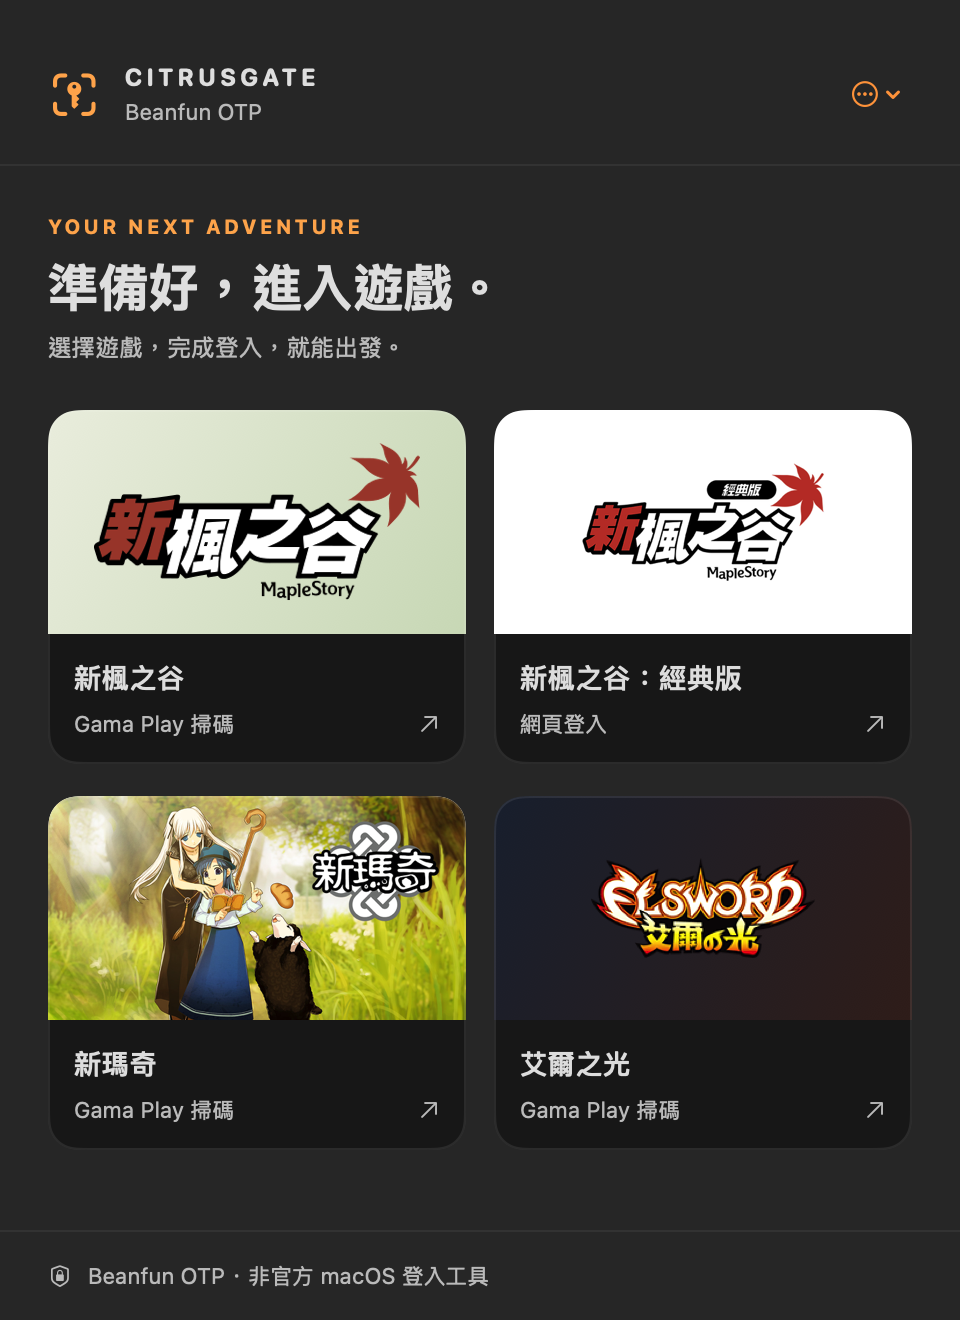
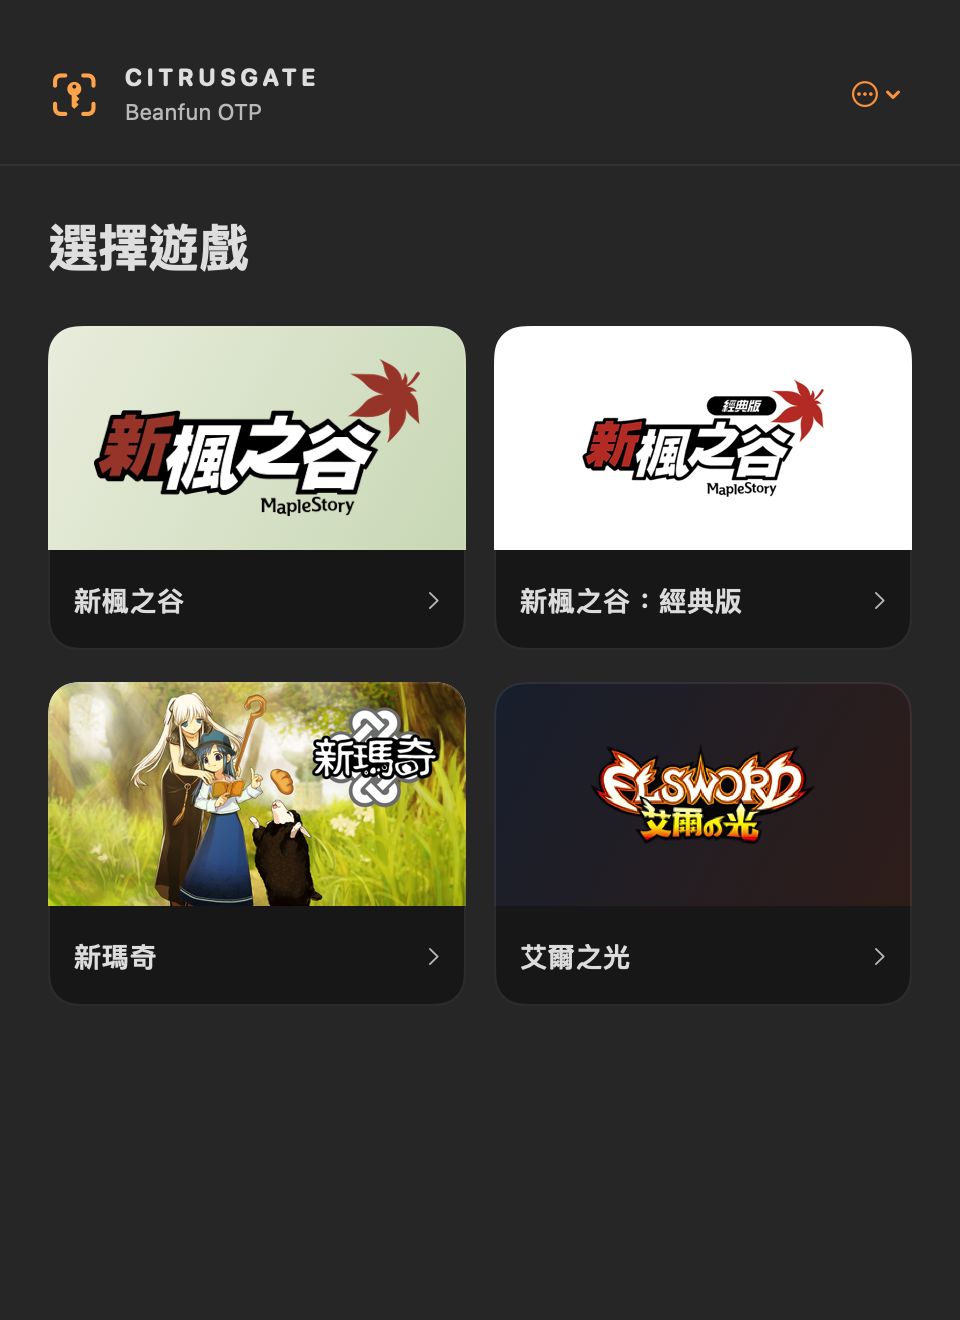
Simplify Modern and Legacy interface labels

diff --git a/Sources/ContentView.swift b/Sources/ContentView.swift
@@ -19,18 +19,20 @@ struct ContentView: View {
                             .padding(24)
                             .frame(maxWidth: .infinity, minHeight: 520, alignment: .top)
                     }
-                    Divider().opacity(0.55)
-                    HStack(spacing: 8) {
-                        Image(systemName: model.isBusy ? "hourglass" : "lock.shield")
-                            .accessibilityHidden(true)
-                        Text(model.screen == .games ? "Beanfun OTP · 非官方 macOS 登入工具" : model.statusMessage)
-                            .lineLimit(2)
-                        Spacer(minLength: 0)
+                    if model.screen != .games && model.screen != .qr {
+                        Divider().opacity(0.55)
+                        HStack(spacing: 8) {
+                            Image(systemName: model.isBusy ? "hourglass" : "lock.shield")
+                                .accessibilityHidden(true)
+                            Text(model.statusMessage)
+                                .lineLimit(2)
+                            Spacer(minLength: 0)
+                        }
+                        .font(.system(size: 11))
+                        .foregroundStyle(CitrusTheme.secondary)
+                        .padding(.horizontal, 24)
+                        .frame(minHeight: 44)
                     }
-                    .font(.system(size: 11))
-                    .foregroundStyle(CitrusTheme.secondary)
-                    .padding(.horizontal, 24)
-                    .frame(minHeight: 44)
                 }
                 .frame(height: 660)
 
@@ -185,21 +187,21 @@ struct ContentView: View {
 
     private var gamePickerView: some View {
         VStack(alignment: .leading, spacing: 24) {
-            CitrusSectionHeading(eyebrow: "YOUR NEXT ADVENTURE", title: "準備好，進入遊戲。", subtitle: "選擇遊戲，完成登入，就能出發。")
+            CitrusSectionHeading(title: "選擇遊戲")
             LazyVGrid(columns: [GridItem(.flexible(), spacing: 14), GridItem(.flexible(), spacing: 14)], spacing: 16) {
                 ForEach(model.games) { game in
                     Button { model.selectGame(game, autoPickExecutable: false) } label: {
                         VStack(alignment: .leading, spacing: 0) {
                             GameArtwork(game: game).frame(height: 112).clipped()
-                            VStack(alignment: .leading, spacing: 5) {
-                                Text(game.name).font(.system(size: 14, weight: .semibold)).lineLimit(2).frame(minHeight: 20, alignment: .top)
-                                HStack(spacing: 5) {
-                                    Text(game.authFlow == .webNexonPlug ? "網頁登入" : "Gama Play 掃碼")
-                                    Spacer(minLength: 0)
-                                    Image(systemName: "arrow.up.right").accessibilityHidden(true)
-                                }
-                                .font(.system(size: 11)).foregroundStyle(CitrusTheme.secondary)
+                            HStack(spacing: 8) {
+                                Text(game.name).font(.system(size: 14, weight: .semibold)).lineLimit(2)
+                                Spacer(minLength: 0)
+                                Image(systemName: "chevron.right")
+                                    .font(.caption)
+                                    .foregroundStyle(CitrusTheme.secondary)
+                                    .accessibilityHidden(true)
                             }
+                            .frame(minHeight: 24)
                             .padding(13)
                         }
                         .background(CitrusTheme.surface)
@@ -227,7 +229,7 @@ struct ContentView: View {
                 if !hasUpdateFailure {
                     GameArtwork(game: game).frame(height: 132).clipShape(RoundedRectangle(cornerRadius: 16))
                 }
-                CitrusSectionHeading(eyebrow: "ONE SCAN AWAY", title: "\(game.name)", subtitle: "使用 Gama Play 掃碼，確認後選擇遊戲帳號。")
+
             }
             if hasUpdateFailure { ClientUpdateActionsSection(model: model) }
             Button { model.startLogin() } label: {
@@ -246,7 +248,7 @@ struct ContentView: View {
 
     private var standardQRView: some View {
         VStack(spacing: 18) {
-            CitrusSectionHeading(eyebrow: "SCAN & CONFIRM", title: "掃碼，確認登入。", subtitle: "開啟 Gama Play 掃描下方 QR Code，並在手機上確認。")
+            CitrusSectionHeading(title: "用 Gama Play 掃碼")
             ZStack {
                 RoundedRectangle(cornerRadius: 20).fill(.white)
                 if let image = model.qrImage {
@@ -287,17 +289,16 @@ struct ContentView: View {
         VStack(alignment: .leading, spacing: 22) {
             if let game = model.selectedGame {
                 GameArtwork(game: game).frame(height: 132).clipped().clipShape(RoundedRectangle(cornerRadius: 16))
-                CitrusSectionHeading(eyebrow: "A CLASSIC RETURNS", title: "\(game.name)", subtitle: "在官網完成登入後，回到這裡啟動遊戲。")
+
             }
             if !model.isNexonPlugHandler {
-                HStack(alignment: .top, spacing: 10) {
-                    Image(systemName: "link.badge.plus").foregroundStyle(CitrusTheme.accent)
-                    VStack(alignment: .leading, spacing: 5) {
-                        Text("先連結網頁登入").font(.headline)
-                        Text("讓官網將登入結果交給 Beanfun OTP。").font(.caption).foregroundStyle(CitrusTheme.secondary)
-                        Button("設定登入連結") { model.claimNexonPlugHandler() }.buttonStyle(.link)
-                    }
+                Button {
+                    model.claimNexonPlugHandler()
+                } label: {
+                    Label("設定登入連結", systemImage: "link.badge.plus")
                 }
+                .buttonStyle(.bordered)
+                .disabled(model.isBusy)
             }
             Button { model.openClassicLoginPage() } label: { Label("開啟官網登入", systemImage: "arrow.up.right.square") }
                 .buttonStyle(CitrusPrimaryButton())
@@ -316,13 +317,8 @@ struct ContentView: View {
                 Image(systemName: "qrcode.viewfinder")
                     .font(.system(size: 56, weight: .light))
                     .foregroundStyle(.orange)
-                VStack(spacing: 6) {
-                    Text("使用 Gama Play 掃碼登入")
-                        .font(.title3.bold())
-                    Text("登入成功後會自動列出\(model.selectedGame?.name ?? "遊戲")帳號，不需要事先知道 SN。")
-                        .foregroundStyle(CitrusTheme.secondary)
-                        .multilineTextAlignment(.center)
-                }
+                Text("使用 Gama Play 掃碼登入")
+                    .font(.title3.bold())
                 if model.isDownloadingGameClient {
                     HStack(spacing: 10) {
                         ProgressView().controlSize(.small)
@@ -388,7 +384,7 @@ struct ContentView: View {
 
     private var standardAccountView: some View {
         VStack(alignment: .leading, spacing: 22) {
-            CitrusSectionHeading(eyebrow: "YOU’RE SIGNED IN", title: model.accounts.count > 1 ? "選擇你的帳號。" : "準備進入遊戲。", subtitle: model.selectedGame?.name ?? "登入已完成")
+            CitrusSectionHeading(title: "選擇帳號")
             ScrollView {
                 VStack(spacing: 8) {
                     ForEach(model.accounts) { account in
@@ -878,11 +874,13 @@ private struct ExecutablePickerSection: View {
                     Image(systemName: model.hasValidExecutable ? "checkmark.circle" : "folder.badge.questionmark")
                         .foregroundStyle(model.hasValidExecutable ? Color.green : CitrusTheme.secondary)
                         .accessibilityHidden(true)
-                    VStack(alignment: .leading, spacing: 4) {
-                        Text(model.hasValidExecutable ? "主程式已設定" : "準備遊戲主程式").font(.system(size: 12, weight: .semibold))
-                        Text(model.hasValidExecutable ? URL(fileURLWithPath: model.executablePath).deletingLastPathComponent().path.replacingOccurrences(of: NSHomeDirectory(), with: "~") : "選擇 \(game.executableName)，或先下載遊戲。")
-                            .font(.system(size: 11)).foregroundStyle(CitrusTheme.secondary).lineLimit(2).truncationMode(.middle)
+                    if model.hasValidExecutable {
+                        Text(URL(fileURLWithPath: model.executablePath).lastPathComponent)
+                            .font(.system(size: 12, weight: .semibold))
+                            .lineLimit(1).truncationMode(.middle)
                             .help(model.executablePath)
+                    } else {
+                        Text(game.executableName).font(.system(size: 12, weight: .semibold))
                     }
                     Spacer(minLength: 0)
                     Button(model.hasValidExecutable ? "更換…" : "選擇…") { model.chooseExecutable() }

diff --git a/Legacy/Sources/AppController.swift b/Legacy/Sources/AppController.swift
@@ -81,13 +81,9 @@ final class AppController: NSViewController, NSTableViewDataSource, NSTableViewD
 
     // Classic Mode UI
     private let openClassicWebButton = NSButton(title: "開啟官方登入網頁", target: nil, action: nil)
-    private let claimNexonPlugButton = NSButton(title: "將 NexonPlug 設為由 Beanfun OTP 處理", target: nil, action: nil)
-    private let nexonPlugBoundLabel = NSTextField(
-        wrappingLabelWithString: "NexonPlug 已由 Beanfun OTP 處理"
-    )
+    private let claimNexonPlugButton = NSButton(title: "設定登入連結", target: nil, action: nil)
     private let downloadClassicButton = NSButton(title: "下載經典版", target: nil, action: nil)
     private let downloadMapleStoryButton = NSButton(title: "下載新楓之谷", target: nil, action: nil)
-    private let classicNoticeLabel = NSTextField(wrappingLabelWithString: "網頁登入後會透過 NexonPlug:// 傳送參數啟動經典版。")
     private var classicContainer: NSStackView!
 
     // OTP Block UI
@@ -208,6 +204,7 @@ final class AppController: NSViewController, NSTableViewDataSource, NSTableViewD
         qrStatusLabel.textColor = NSColor.disabledControlTextColor
 
         // Executable Path Section
+        exePathLabel.isHidden = true
         exePathLabel.alignment = .center
         exePathLabel.font = NSFont.systemFont(ofSize: 11)
         exePathLabel.textColor = NSColor.secondaryLabelColor
@@ -241,20 +238,9 @@ final class AppController: NSViewController, NSTableViewDataSource, NSTableViewD
         downloadClassicButton.target = self
         downloadClassicButton.action = #selector(handleDownloadClassic)
 
-        classicNoticeLabel.alignment = .center
-        classicNoticeLabel.font = NSFont.systemFont(ofSize: 11)
-        classicNoticeLabel.textColor = NSColor.secondaryLabelColor
-
-        nexonPlugBoundLabel.alignment = .center
-        nexonPlugBoundLabel.font = NSFont.systemFont(ofSize: 11)
-        nexonPlugBoundLabel.textColor = NSColor.secondaryLabelColor
-        nexonPlugBoundLabel.isHidden = true
-
         classicContainer = NSStackView(views: [
-            classicNoticeLabel,
             openClassicWebButton,
             claimNexonPlugButton,
-            nexonPlugBoundLabel,
             downloadClassicButton,
         ])
         classicContainer.orientation = .vertical
@@ -545,17 +531,21 @@ final class AppController: NSViewController, NSTableViewDataSource, NSTableViewD
     }
 
     private func updateExePathLabel() {
-        guard let game = selectedGame else {
+        guard selectedGame != nil else {
             exePathLabel.stringValue = ""
+            exePathLabel.isHidden = true
+            exePathLabel.toolTip = nil
             return
         }
         if executablePath.isEmpty {
-            exePathLabel.stringValue = "（未指定 \(game.executableName) 主程式）"
+            exePathLabel.stringValue = ""
         } else if !FileManager.default.fileExists(atPath: executablePath) {
             exePathLabel.stringValue = "⚠ 找不到主程式：\(executablePath)"
         } else {
-            exePathLabel.stringValue = "主程式：\(executablePath)"
+            exePathLabel.stringValue = URL(fileURLWithPath: executablePath).lastPathComponent
         }
+        exePathLabel.isHidden = exePathLabel.stringValue.isEmpty
+        exePathLabel.toolTip = executablePath.isEmpty ? nil : executablePath
         updateButtons()
     }
 
@@ -995,7 +985,6 @@ final class AppController: NSViewController, NSTableViewDataSource, NSTableViewD
             selfBundleID: Self.beanfunOTPBundleID
         )
         claimNexonPlugButton.isHidden = bound
-        nexonPlugBoundLabel.isHidden = !bound
     }
 
     @objc private func handlePrimary() {

diff --git a/Sources/CitrusTheme.swift b/Sources/CitrusTheme.swift
@@ -33,16 +33,14 @@ struct CitrusPrimaryButton: ButtonStyle {
 }
 
 struct CitrusSectionHeading: View {
-    let eyebrow: String
     let title: String
-    let subtitle: String
+
     var body: some View {
-        VStack(alignment: .leading, spacing: 7) {
-            Text(eyebrow).font(.system(size: 10, weight: .bold)).tracking(1.6).foregroundStyle(CitrusTheme.accent)
-            Text(title).font(.system(size: 27, weight: .bold, design: .rounded)).tracking(-0.5)
-            Text(subtitle).font(.callout).foregroundStyle(CitrusTheme.secondary).fixedSize(horizontal: false, vertical: true)
-        }
-        .frame(maxWidth: .infinity, alignment: .leading)
+        Text(title)
+            .font(.system(size: 27, weight: .bold, design: .rounded))
+            .tracking(-0.5)
+            .accessibilityAddTraits(.isHeader)
+            .frame(maxWidth: .infinity, alignment: .leading)
     }
 }
 
@@ -50,7 +48,7 @@ struct LaunchReadinessView: View {
     @ObservedObject var model: AppModel
     var body: some View {
         VStack(alignment: .leading, spacing: 18) {
-            CitrusSectionHeading(eyebrow: "READY TO PLAY", title: "啟動前檢查", subtitle: "確認遊戲檔案與啟動環境，讓登入順利完成。")
+            CitrusSectionHeading(title: "啟動前檢查")
             ForEach(model.readinessItems) { item in
                 HStack(alignment: .top, spacing: 12) {
                     Image(systemName: item.isReady ? "checkmark.circle.fill" : "exclamationmark.circle")

diff --git a/Sources/ClassicDownloadProgressView.swift b/Sources/ClassicDownloadProgressView.swift
@@ -7,11 +7,10 @@ struct ClassicDownloadProgressView: View {
         let state = model.classicDownloadProgress
         VStack(alignment: .leading, spacing: 24) {
             HStack(alignment: .top) {
-                VStack(alignment: .leading, spacing: 7) {
-                    Text("GETTING READY").font(.system(size: 10, weight: .bold)).tracking(1.6).foregroundStyle(CitrusTheme.accent)
-                    Text(model.gameClientDownloadTitle).font(.system(size: 22, weight: .bold, design: .rounded))
-                        .fixedSize(horizontal: false, vertical: true)
-                }
+                Text(model.gameClientDownloadTitle)
+                    .font(.system(size: 22, weight: .bold, design: .rounded))
+                    .fixedSize(horizontal: false, vertical: true)
+                    .accessibilityAddTraits(.isHeader)
                 Spacer(minLength: 12)
                 Image(systemName: state.phase == .patching ? "wrench.and.screwdriver" : "arrow.down.circle")
                     .font(.system(size: 30, weight: .light)).foregroundStyle(CitrusTheme.accent).accessibilityHidden(true)

diff --git a/docs/release-0.9.0.md b/docs/release-0.9.0.md
@@ -21,6 +21,12 @@ Modern 支援 macOS 13 以上、Apple Silicon／Intel。Legacy App 保留 Intel 
 
 本段為待發布文案；實際正式發布仍須完成下方發布前驗收，不表示已建立 GitHub release。
 
+## Build 31 介面精簡（2026-11-04）
+
+- Modern 以遊戲名稱、卡片與主要操作呈現流程，移除裝飾性小標和重複副標。
+- Legacy 經典版在需要時顯示「設定登入連結」。主程式欄顯示檔名，完整路徑可透過提示查看。
+- 掃碼、倒數、錯誤與取消提示仍在對應的操作畫面顯示。
+
 ## Build 30 最後程式碼與介面檢查
 
 - 修正取消後仍承諾接續下載的提示，明確說明可能重新下載。
@@ -125,5 +131,5 @@ Modern 支援 macOS 13 以上、Apple Silicon／Intel。Legacy App 保留 Intel 
 - 程式碼／回歸：`.build/final-review-tests.log`；5 項 Python、48 項核心、兩版各 14 個 WebToken fixtures，以及更新與原子提交邊界案例。
 - 介面：`.build/ui-review-final.log`、`.build/ui-review-legacy-final.log`；Legacy 原生控制項另檢查僅有階段訊息時與校驗時無過期資訊、取消鎖定，以及結束後操作恢復。
 - 簽章／公證：`.build/release-modern.log`、`.build/release-legacy.log`；獨立檢查：`.build/verify-modern-final.log`、`.build/verify-legacy-final.log`。
-- 產物：`dist/Beanfun-OTP-0.9.0-macOS.zip`、`dist/Beanfun-OTP-Legacy-0.9.0-macOS.zip`，版本均為 0.9.0 build 30；SHA-256 見 `dist/SHA256SUMS.txt`。
+- 產物：`dist/Beanfun-OTP-0.9.0-macOS.zip`、`dist/Beanfun-OTP-Legacy-0.9.0-macOS.zip`，目前版本均為 0.9.0 build 31；SHA-256 見 `dist/SHA256SUMS.txt`。
 - 本輪沒有重跑所有大型官方下載；保留 build 29 的真實跨版本證據，build 30 以對應取消邊界回歸、兩版建置及原生介面測試驗證最後修正。
